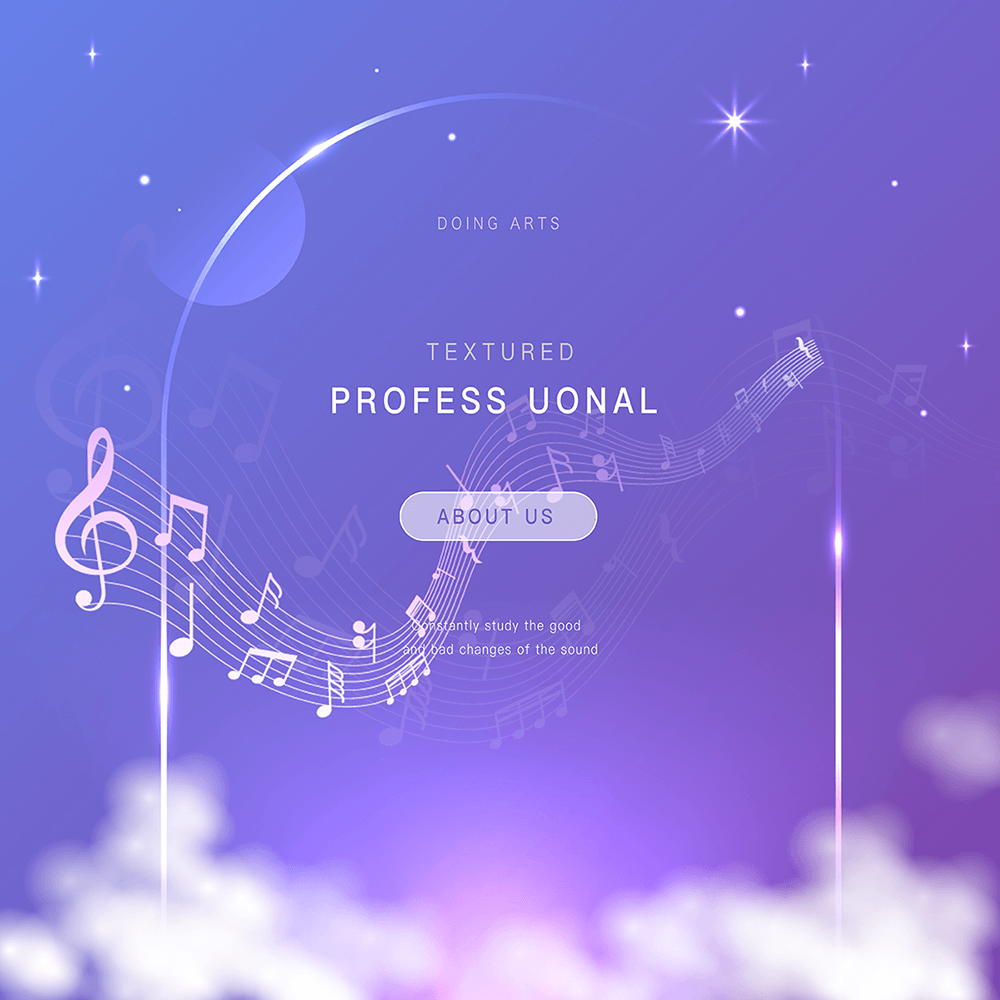
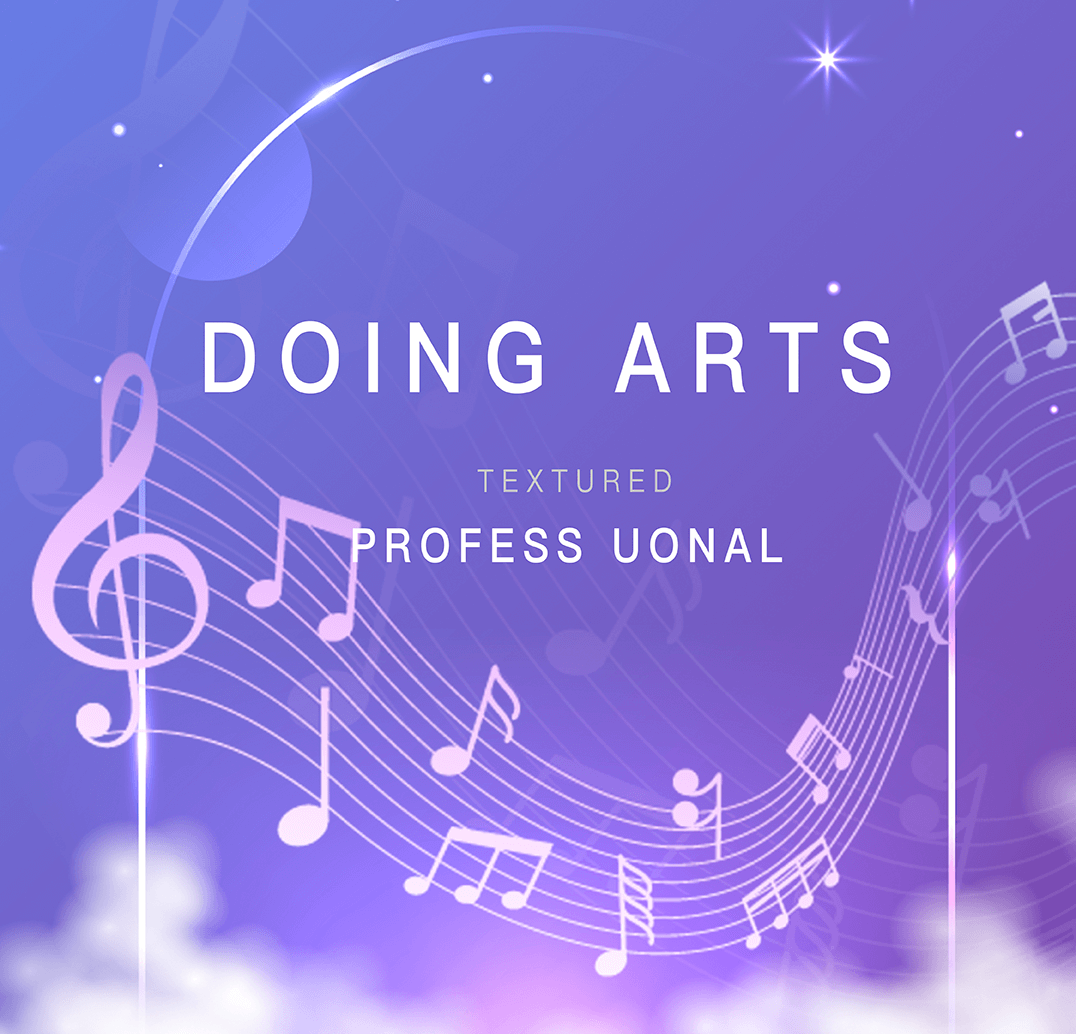
Modified web.html mobile layout

diff --git a/css/web.css b/css/web.css
@@ -62,6 +62,10 @@
     object-fit: contain;
 }
 
+.r1 .wp img.m {
+    display: none;
+}
+
 .r1.gov .wp img {
     width: 100%;
     object-fit: contain;
@@ -119,8 +123,8 @@
 
 .r1 .wp p {
     width: 40%;
+    margin: 0 auto;
     line-height: 2rem;
-    margin-left: 5%;
     color: #777;
 }
 
@@ -150,7 +154,7 @@ a.btn.more {
     height: 50px;
     border-radius: 5px;
     line-height: 50px;
-    background-color: rgba(134, 134, 134, 0.63);
+    background-color: rgba(134, 134, 134, 0.83);
     margin: 42px auto;
 }
 
@@ -193,11 +197,6 @@ a.btn:hover {
     margin: 20px auto 40px;
 }
 
-/* #main .r2 .wp2 {
-    flex-direction: column;
-
-} */
-
 .r2 .wp content {
     margin: 20px 0;
     width: 30%;
@@ -205,7 +204,6 @@ a.btn:hover {
 
 #main .r2 .wp2 content {
     margin: 10px auto;
-    /* width: 80%; */
     overflow: hidden;
     box-shadow: 2px 2px 15px rgb(237, 237, 237);
 }
@@ -294,6 +292,20 @@ a.btn:hover {
     color: #777;
 }
 
+@media (max-width:1055px) {
+    .r2 .wp2 content img {
+        height: 300px;
+    }
+
+    .r2 .wp content {
+        width: 31.5%;
+    }
+
+    .r2 .wp content:nth-child(2) img {
+        object-position: 71%;
+    }
+}
+
 @media(max-width:950px) {
     #main {
         margin-top: 40px;
@@ -307,18 +319,75 @@ a.btn:hover {
 
 @media (max-width:800px) {
     .r2 .wp content {
-        width: 47%;
+        width: 31%;
         margin-bottom: 0;
     }
 
-    .r2 .wp content img {
-        width: 92%;
+    #main .r2 .wp2 {
+        width: 90%;
+        margin: 0 auto;
+    }
+
+    .r2 .wp2 content img {
+        height: 200px;
+    }
+
+    .r2 .wp2 content:nth-child(1) img {
+        object-position: center;
+    }
+
+
+
+    .r2 .wp content:nth-child(3) img {
+        object-position: 10%;
+    }
+}
+
+@media(max-width:700px) {
+    #main .column .wp {
+        flex-direction: column;
+    }
+
+    #main .column.reverse .wp {
+        flex-direction: column-reverse;
+    }
+
+    #main .wp.marginBottom {
+        margin-bottom: 55px;
+    }
+
+    .r1 .wp p {
+        margin-top: 31px;
+    }
+
+    .r1 .wp img.m {
+        display: block;
+    }
+
+    .r1 .wp img.pc {
+        display: none;
+    }
+
+    .r1 .wp img, .r1 .wp p {
+        width: 70%;
+    }
+
+    .r2 .wp content {
+        width: 45%;
+    }
+
+    .r2 .wp2 content {
+        width: 80%;
     }
 }
 
 @media(max-width:630px) {
     .r2 .wp content {
         margin: 10px 3px 0;
+    }
+
+    .r1 .wp img, .r1 .wp p {
+        width: 80%;
     }
 }
 
@@ -342,9 +411,7 @@ a.btn:hover {
         flex-direction: column;
     }
 
-    .r.reverse .wp {
-        flex-direction: column-reverse;
-    }
+
 
     .r1 .wp .image {
         width: 300px;
@@ -352,7 +419,6 @@ a.btn:hover {
     }
 
     .r1 .wp p {
-        width: 60%;
         margin: 20px auto;
     }
 
@@ -391,10 +457,6 @@ a.btn:hover {
 
     .row1 p {
         width: 80%;
-    }
-
-    .r1 .wp p {
-        width: 70%;
     }
 
     .r3 .wp img {

diff --git a/web.html b/web.html
@@ -71,9 +71,10 @@
               </content>
             </div>
         </div>
-        <div class="r r1">
+        <div class="r r1 column">
             <div class="wp">
-            <img src="img/web/doing1.png" alt="">
+            <img src="img/web/doing1.png" alt="" class="pc">
+            <img src="img/web/doing3.png" alt="" class="m">
                <p>
                    <span class="title text">【 多音藝術 】</span>
                    <span>將聲⾳、嘉年華模式和藝⽂展演各⾃詮釋及串連，透過多聲匯集，如海納百川般收納各種聲響，不斷鑽研聲⾳的好壞變化，追求聽覺享受極致。</span>
@@ -81,7 +82,7 @@
                </p>
             </div>
         </div>
-        <div class="r r1 reverse">
+        <div class="r r1 reverse column">
             <div class="wp">
                <p>
                    <span class="title text">【 遊戲 】</span>
@@ -91,8 +92,8 @@
                <img src="img/web/game.png" alt="">
             </div>
         </div>
-        <div class="r r1 imgbig">
-            <div class="wp">
+        <div class="r r1 imgbig column">
+            <div class="wp marginBottom">
                <img src="img/web/1.png" alt="">
                <p>
                    <span class="title">巴黎萊雅</span>
@@ -100,8 +101,8 @@
                </p>
             </div>
         </div>
-        <div class="r r1 imgsmall reverse">
-            <div class="wp">
+        <div class="r r1 imgsmall reverse column">
+            <div class="wp marginBottom">
                <p class="nopadding">
                   <span class="title">CISCO</span>
                    <span>CISCO兌換點數系統，為內部業務使用，依銷售達成率累積點數，點數未達最低兌換標準時也可以轉送點數給他人，兌換禮品可選擇轉交或掛號寄送兩種方式。</span>
@@ -109,8 +110,8 @@
                <img src="img/web/cisco.png" alt="">
             </div>
         </div>
-        <div class="r r1">
-            <div class="wp">
+        <div class="r r1 column">
+            <div class="wp ">
                <img src="img/web/2.png" alt="">
                <p class="nopadding">
                   <span class="title long">台灣傳統藝術中心</span>
